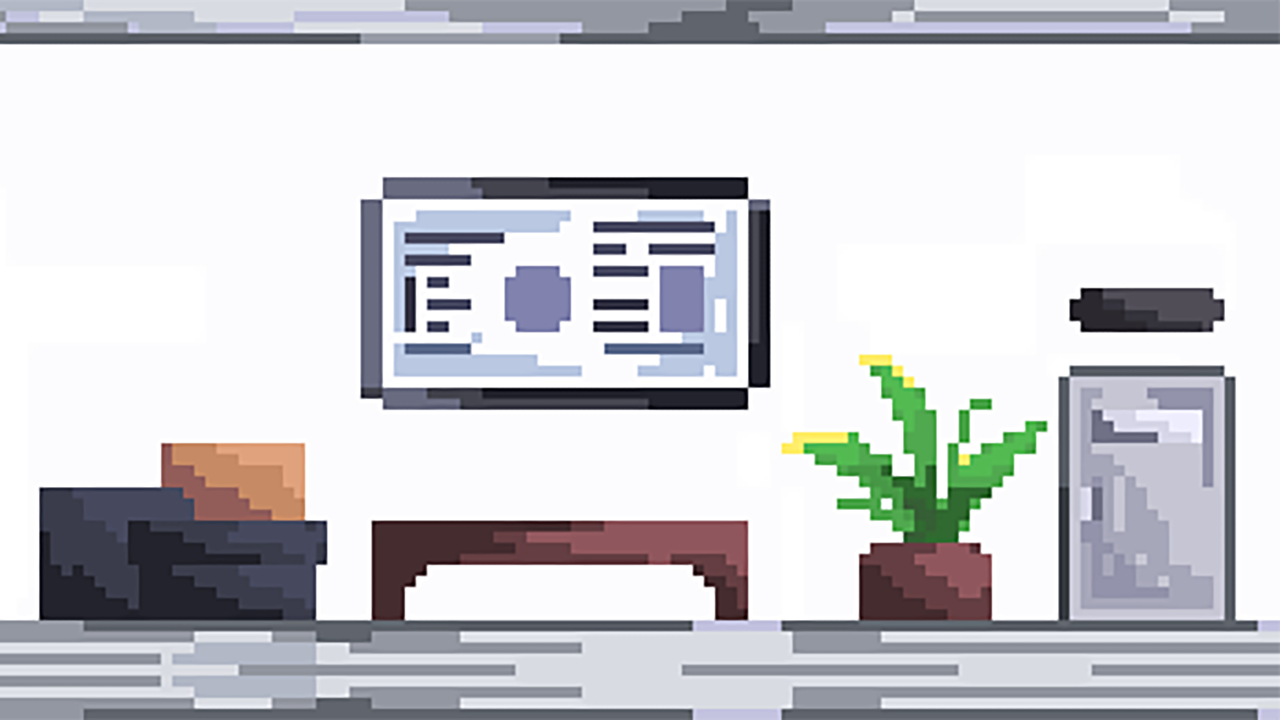
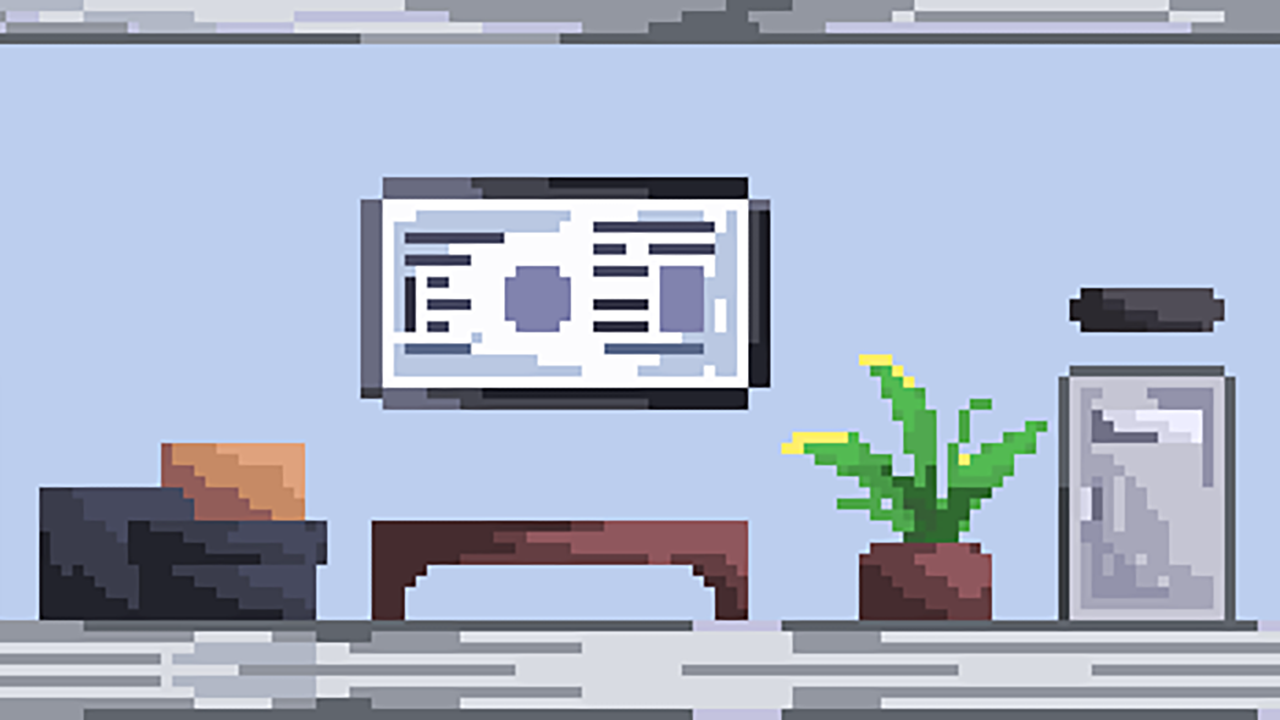
GG

diff --git a/containers/ game/js/map.js b/containers/ game/js/map.js
@@ -10,6 +10,8 @@ function countStage(){
     }
 }
 
+var previous_pos;
+
 function editMap(){
     doors = [];
     locker = [];
@@ -45,8 +47,47 @@ function editMap(){
         ChangeFloor();
         collisionLeft();
     }else if(stage === 11){
+        doors.push(new Door(1070,370,160,250,11.1));
+        ChangeRoom();
         collisionRight();
+    }else if(stage === 11.1){
+        doors.push(new Door(50,370,160,250,11));
+        ChangeRoom();
+        collisionLeft();
+        collisionRight();
+    }else if(stage === 12){
+        doors.push(new Door(30,370,160,250,12.1));
+        doors.push(new Door(1090,370,160,250,12.2));
+        ChangeRoom();
+    }else if(stage === 12.1){
+        doors.push(new Door(1060,370,160,250,12));
+        collisionRight();
+        collisionLeft();
+        ChangeRoom();
+    }else if(stage === 12.2){
+        doors.push(new Door(90,370,160,250,12.22));
+        collisionRight();
+        collisionLeft();
+        ChangeRoom();
     }else if(stage === 13){
+        ladders.push(new Ladder(0,370,160,250,1));
+        ChangeFloor();
+        collisionLeft();
+    }else if(stage === 21){
+        doors.push(new Door(1070,370,160,250,12.2));
+        collisionRight();
+        ChangeRoom();
+    }else if(stage === 22){
+        doors.push(new Door(30,370,160,250,12.1));
+        doors.push(new Door(1090,370,160,250,12.2));
+        ChangeRoom();
+    }else if(stage === 23){
+        ladders.push(new Ladder(0,370,160,250,1));
+        ChangeFloor();
+        collisionLeft();
+    }else if(stage === 31){
+    }else if(stage === 32){
+    }else if(stage === 33){
         ladders.push(new Ladder(0,370,160,250,1));
         ChangeFloor();
         collisionLeft();
@@ -68,14 +109,28 @@ function changeStage(){
         backgroundlayer1.src = 'img/1-1.png';
     }else if(stage === 3){
         backgroundlayer1.src = 'img/F1-3.png';
-    }
-    
-    else if(stage === 11){
+    }else if(stage === 11){
         backgroundlayer1.src = 'img/F2-1.png';
+    }else if(stage === 11.1){
+        backgroundlayer1.src = 'img/2-3.png';
     }else if(stage === 12){
         backgroundlayer1.src = 'img/F2-2.png';
+    }else if(stage === 12.1){
+        backgroundlayer1.src = 'img/2-1.png';
+    }else if(stage === 12.2){
+        backgroundlayer1.src = 'img/2-2.png';
     }else if(stage === 13){
         backgroundlayer1.src = 'img/F2-3.png';
+    }else if(stage === 21){
+        backgroundlayer1.src = 'img/F3-1.png';
+    }else if(stage === 22){
+        backgroundlayer1.src = 'img/F3-2.png';
+    }else if(stage === 23){
+        backgroundlayer1.src = 'img/F3-3.png';
+    }else if(stage === 32){
+        backgroundlayer1.src = 'img/F4-2.png';
+    }else if(stage === 33){
+        backgroundlayer1.src = 'img/F4-3.png';
     }
 }
 
@@ -93,9 +148,11 @@ function collisionLeft(){
 function ChangeFloor(){
     for(let i = 0; i<ladders.length;i++){
         if(checkIntersection(player,ladders[i])){
-            if(upKey){
+            if(upKey && stage < 33){
+                player.x = 40;
                 stage += 10;
             }else if(downKey && stage >= 13){
+                player.x = 40;
                 stage -= 10;
             }
         }
@@ -105,25 +162,40 @@ function ChangeRoom(){
     for(let i = 0; i<doors.length;i++){
         if(checkIntersection(player,doors[i])){
             if(upKey && stage == Math.floor(stage)){
+                changRoomBG.style.animation = 'wipwup 3s';
+                previous_pos = player.x;
                 if(doors[i].type == 2.1){
                     stage += 0.1;
                     player.x = 90;
                 }else if(doors[i].type == 2.2){
                     stage += 0.2
                     player.x = 90;
-                }else{
+                }else if(doors[i].type == 11.1){
                     stage += 0.1
+                    player.x = 90;
+                }else if(doors[i].type == 12.1){
+                    stage += 0.1
+                    player.x = 1100;
+                }else if(doors[i].type == 12.2){
+                    stage += 0.2
+                    player.x = 120;
+                }else{
+                    stage += 0.1;
                 }
+                console.log(stage)
             }else if(downKey && stage != Math.floor(stage)){
+                changRoomBG.style.animation = 'wipwup 3s';
+                player.x = previous_pos;
                 if(doors[i].type == 2){
                     stage -= 0.1;
-                    player.x = 1120;
                 }else if(doors[i].type == 2.22){
                     stage -= 0.2;
-                    player.x = 80;
+                }else if(doors[i].type == 12.22){
+                    stage -= 0.2;
                 }else{
                     stage -= 0.1;
                 }
+                console.log(stage)
             }
         }
     }

diff --git a/containers/ game/style.css b/containers/ game/style.css
@@ -2,14 +2,21 @@ canvas {
     border: 5px solid black;
     position: relative;
     z-index: 0;
-    animation: ChangeBG 1s linear infinite;
 }
 
-@keyframes ChangeBG{
-    0%{filter: brightness(1)};
-    50%{filter: brightness(0)}
-    100%{filter: brightness(1)};
+#ChangeBG{
+    width:1280px;
+    height:720px;
+    position: absolute;
+    z-index: 1;
+    background:black;
+    opacity: 0;
 }
+@keyframes wipwup{
+    0%{opacity: 1;}
+    100%{opacity: 0;}
+}
+
 
 body{
     margin: 0;

diff --git a/containers/ game/js/index.js b/containers/ game/js/index.js
@@ -20,7 +20,7 @@ var interact;
 //Create game variables
 var gameLoop;
 var player;
-var stage = 1;
+var stage = 23;
 var locker = [];
 var borders = [];
 var health;
@@ -48,7 +48,7 @@ window.onload = function() {
     //Assign canvas and context varriables
     canvas = document.getElementById("game-canvas");
     ctx = canvas.getContext("2d");
-
+    changRoomBG = document.querySelector("#ChangeBG");
    
 
     //Setup key listeners

diff --git a/containers/ game/js/doors.js b/containers/ game/js/doors.js
@@ -19,7 +19,7 @@ function Ladder(x,y,width,height,type){
     this.type = type;
     
     this.draw = function(){
-        ctx.fillStyle = "green";
+        ctx.fillStyle = "transparent";
         ctx.fillRect(this.x,this.y,this.width,this.height);
     }
 }

diff --git a/containers/ game/index.html b/containers/ game/index.html
@@ -8,6 +8,7 @@
     <link rel="stylesheet" href="style.css">
 </head>
 <body>
+    <div id="ChangeBG"></div>
     <canvas width="1280" height="720" id="game-canvas">
     </canvas>
     <script src="js/index.js"></script>
